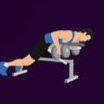
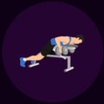
v234: 30 esercizi nuovi, con le foto arrivate da WhatsApp
Ste (21/10/2026): le foto sono su WhatsApp, e sono tanti esercizi, quindi serve
un modo per trovarli (la ricerca e i filtri sono gia' nella v233).

Ho collegato WhatsApp Web dal PC (col numero di telefono, non col QR), aperto la chat e
scaricato gli screenshot. Le icone sono state ritagliate dalle foto e portate
nello stile dell'app.

Sono 30 esercizi nuovi: Incline Side Lying Lateral Raise, Iso-Lateral Low Row,
Hammer Curl (Dumbbell), High to Low Cable Fly, Dumbbell Reverse Fly, Dumbbell Row,
Dumbbell Spider Curl, Iso-Lateral High Row, Double Kettlebell Row, Dumbbell Bench
Press, Dumbbell Bench Pull, Dumbbell Concentration Curl, Dumbbell Curl, Dumbbell
Deadlift, Dumbbell Face Pull, Incline Bench Press, Incline Cable Curl, Incline
Dumbbell Bench Press, Incline Dumbbell Curl, Incline Hammer Curl, EZ Bar Curl, EZ Bar
Lying Tricep Extension, EZ Bar Preacher Curl, EZ Bar Spider Curl, Seated Dumbbell
Curl, Seated Dumbbell Lateral Raise, Seated Dumbbell Tricep Extension, Seated Hammer
Curl, Shoulder Pin Press.

Ogni esercizio ha la convenzione del carico giusta (i cavi dicono se sono a mono o
doppia carrucola), il movimento (senza, il Rank non ha scala) e il livello, e NON
entra in nessuna scheda: sono disponibili nella lista, ma gli allenamenti di Ste non
cambiano da soli.

Mancano le sezioni della lista che non sono ancora arrivate sul PC: le prendo al
prossimo giro.

diff --git a/src/dati-iniziali.js b/src/dati-iniziali.js
@@ -286,6 +286,34 @@ export const ESERCIZI = [
 // raise è un manubrio per mano, quindi il numero è per mano.
 { id: 'ex-db-lateral-raise', nome: 'Dumbbell Lateral Raise', gruppo: 'Lateral Raise', convenzione: C.PER_MANUBRIO, foto: 'img/esercizi/db-lateral-raise.png', tipo: 'standard', nota_permanente: '' },
   { id: 'ex-lying-cable-curl', nome: 'Incline Single Arm Pulldown', gruppo: 'Lat Pulldown', convenzione: C.CAVO, carrucola: C.CARRUCOLA_MONO, foto: 'img/esercizi/incline-single-arm-pulldown.png', tipo: 'standard', nota_permanente: 'Braccio singolo: sto sulla panca inclinata col petto appoggiato e tiro il cavo alto verso di me con la presa piccola. Dorso. Quello che diciamo "liac".' },
+  { id: 'ex-incline-side-lying-lateral-raise', nome: 'Incline Side Lying Lateral Raise', gruppo: 'Incline Side Lying Lateral Raise', convenzione: C.PER_MANUBRIO, foto: 'img/esercizi/incline-side-lying-lateral-raise.png', tipo: 'standard' },
+  { id: 'ex-iso-lateral-low-row', nome: 'Iso-Lateral Low Row', gruppo: 'Iso-Lateral Low Row', convenzione: C.ALTRO, foto: 'img/esercizi/iso-lateral-low-row.png', tipo: 'standard' },
+  { id: 'ex-hammer-curl-dumbbell', nome: 'Hammer Curl (Dumbbell)', gruppo: 'Hammer Curl (Dumbbell)', convenzione: C.PER_MANUBRIO, foto: 'img/esercizi/hammer-curl-dumbbell.png', tipo: 'standard' },
+  { id: 'ex-high-to-low-cable-fly', nome: 'High to Low Cable Fly', gruppo: 'High to Low Cable Fly', convenzione: C.CAVO, carrucola: C.CARRUCOLA_DOPPIA, foto: 'img/esercizi/high-to-low-cable-fly.png', tipo: 'standard' },
+  { id: 'ex-dumbbell-reverse-fly', nome: 'Dumbbell Reverse Fly', gruppo: 'Dumbbell Reverse Fly', convenzione: C.PER_MANUBRIO, foto: 'img/esercizi/dumbbell-reverse-fly.png', tipo: 'standard' },
+  { id: 'ex-dumbbell-row', nome: 'Dumbbell Row', gruppo: 'Dumbbell Row', convenzione: C.PER_MANUBRIO, foto: 'img/esercizi/dumbbell-row.png', tipo: 'standard' },
+  { id: 'ex-dumbbell-spider-curl', nome: 'Dumbbell Spider Curl', gruppo: 'Dumbbell Spider Curl', convenzione: C.PER_MANUBRIO, foto: 'img/esercizi/dumbbell-spider-curl.png', tipo: 'standard' },
+  { id: 'ex-iso-lateral-high-row', nome: 'Iso-Lateral High Row', gruppo: 'Iso-Lateral High Row', convenzione: C.ALTRO, foto: 'img/esercizi/iso-lateral-high-row.png', tipo: 'standard' },
+  { id: 'ex-double-kettlebell-row', nome: 'Double Kettlebell Row', gruppo: 'Double Kettlebell Row', convenzione: C.PER_MANUBRIO, foto: 'img/esercizi/double-kettlebell-row.png', tipo: 'standard' },
+  { id: 'ex-dumbbell-bench-press', nome: 'Dumbbell Bench Press', gruppo: 'Dumbbell Bench Press', convenzione: C.PER_MANUBRIO, foto: 'img/esercizi/dumbbell-bench-press.png', tipo: 'standard' },
+  { id: 'ex-dumbbell-concentration-curl', nome: 'Dumbbell Concentration Curl', gruppo: 'Dumbbell Concentration Curl', convenzione: C.PER_MANUBRIO, foto: 'img/esercizi/dumbbell-concentration-curl.png', tipo: 'standard' },
+  { id: 'ex-dumbbell-curl', nome: 'Dumbbell Curl', gruppo: 'Dumbbell Curl', convenzione: C.PER_MANUBRIO, foto: 'img/esercizi/dumbbell-curl.png', tipo: 'standard' },
+  { id: 'ex-dumbbell-deadlift', nome: 'Dumbbell Deadlift', gruppo: 'Dumbbell Deadlift', convenzione: C.PER_MANUBRIO, foto: 'img/esercizi/dumbbell-deadlift.png', tipo: 'standard' },
+  { id: 'ex-dumbbell-face-pull', nome: 'Dumbbell Face Pull', gruppo: 'Dumbbell Face Pull', convenzione: C.PER_MANUBRIO, foto: 'img/esercizi/dumbbell-face-pull.png', tipo: 'standard' },
+  { id: 'ex-incline-bench-press', nome: 'Incline Bench Press', gruppo: 'Incline Bench Press', convenzione: C.ALTRO, foto: 'img/esercizi/incline-bench-press.png', tipo: 'standard' },
+  { id: 'ex-incline-cable-curl', nome: 'Incline Cable Curl', gruppo: 'Incline Cable Curl', convenzione: C.CAVO, carrucola: C.CARRUCOLA_DOPPIA, foto: 'img/esercizi/incline-cable-curl.png', tipo: 'standard' },
+  { id: 'ex-incline-dumbbell-bench-press', nome: 'Incline Dumbbell Bench Press', gruppo: 'Incline Dumbbell Bench Press', convenzione: C.PER_MANUBRIO, foto: 'img/esercizi/incline-dumbbell-bench-press.png', tipo: 'standard' },
+  { id: 'ex-incline-dumbbell-curl', nome: 'Incline Dumbbell Curl', gruppo: 'Incline Dumbbell Curl', convenzione: C.PER_MANUBRIO, foto: 'img/esercizi/incline-dumbbell-curl.png', tipo: 'standard' },
+  { id: 'ex-incline-hammer-curl', nome: 'Incline Hammer Curl', gruppo: 'Incline Hammer Curl', convenzione: C.PER_MANUBRIO, foto: 'img/esercizi/incline-hammer-curl.png', tipo: 'standard' },
+  { id: 'ex-ez-bar-curl', nome: 'EZ Bar Curl', gruppo: 'EZ Bar Curl', convenzione: C.PER_MANUBRIO, foto: 'img/esercizi/ez-bar-curl.png', tipo: 'standard' },
+  { id: 'ex-ez-bar-lying-tricep-extension', nome: 'EZ Bar Lying Tricep Extension', gruppo: 'EZ Bar Lying Tricep Extension', convenzione: C.PER_MANUBRIO, foto: 'img/esercizi/ez-bar-lying-tricep-extension.png', tipo: 'standard' },
+  { id: 'ex-ez-bar-preacher-curl', nome: 'EZ Bar Preacher Curl', gruppo: 'EZ Bar Preacher Curl', convenzione: C.PER_MANUBRIO, foto: 'img/esercizi/ez-bar-preacher-curl.png', tipo: 'standard' },
+  { id: 'ex-ez-bar-spider-curl', nome: 'EZ Bar Spider Curl', gruppo: 'EZ Bar Spider Curl', convenzione: C.PER_MANUBRIO, foto: 'img/esercizi/ez-bar-spider-curl.png', tipo: 'standard' },
+  { id: 'ex-seated-dumbbell-curl', nome: 'Seated Dumbbell Curl', gruppo: 'Seated Dumbbell Curl', convenzione: C.PER_MANUBRIO, foto: 'img/esercizi/seated-dumbbell-curl.png', tipo: 'standard' },
+  { id: 'ex-seated-dumbbell-lateral-raise', nome: 'Seated Dumbbell Lateral Raise', gruppo: 'Seated Dumbbell Lateral Raise', convenzione: C.PER_MANUBRIO, foto: 'img/esercizi/seated-dumbbell-lateral-raise.png', tipo: 'standard' },
+  { id: 'ex-seated-dumbbell-tricep-extension', nome: 'Seated Dumbbell Tricep Extension', gruppo: 'Seated Dumbbell Tricep Extension', convenzione: C.PER_MANUBRIO, foto: 'img/esercizi/seated-dumbbell-tricep-extension.png', tipo: 'standard' },
+  { id: 'ex-seated-hammer-curl', nome: 'Seated Hammer Curl', gruppo: 'Seated Hammer Curl', convenzione: C.PER_MANUBRIO, foto: 'img/esercizi/seated-hammer-curl.png', tipo: 'standard' },
+  { id: 'ex-shoulder-pin-press', nome: 'Shoulder Pin Press', gruppo: 'Shoulder Pin Press', convenzione: C.ALTRO, foto: 'img/esercizi/shoulder-pin-press.png', tipo: 'standard' },
 ];
 
 const s = (peso, rip, extra = {}) => ({ peso, ripetizioni: rip, ...extra });

diff --git a/test/scheda.test.js b/test/scheda.test.js
@@ -23,10 +23,42 @@ test('23 esercizi della scheda + 4 aggiunti dopo, non ancora in nessuna scheda',
   // I primi 23 sono quelli trascritti dalle foto. I 4 successivi sono stati
   // aggiunti dopo: sono disponibili nella lista ma NON devono essere finiti in
   // nessuna scheda, altrimenti gli allenamenti di Ste cambierebbero da soli.
-  assert.equal(ESERCIZI.length, 27);
+  assert.equal(ESERCIZI.length, 55);
+  // AGGIUNTI ANCHE QUELLI ARRIVATI DA WHATSAPP (Ste, 21/10/2026): sono
+  // disponibili nella lista ma NON in nessuna scheda, altrimenti gli allenamenti di
+  // Ste cambierebbero da soli.
   const aggiunti = ESERCIZI.filter((e) => ['ex-iso-lateral-row', 'ex-lat-pulldown-lats',
-    'ex-db-lateral-raise', 'ex-lying-cable-curl', 'ex-wide-grip-lat-pulldown'].includes(e.id));
-  assert.equal(aggiunti.length, 5, 'i 5 esercizi aggiunti ci sono');
+    'ex-db-lateral-raise', 'ex-lying-cable-curl', 'ex-wide-grip-lat-pulldown',
+    'ex-incline-side-lying-lateral-raise',
+    'ex-iso-lateral-low-row',
+    'ex-hammer-curl-dumbbell',
+    'ex-high-to-low-cable-fly',
+    'ex-dumbbell-reverse-fly',
+    'ex-dumbbell-row',
+    'ex-dumbbell-spider-curl',
+    'ex-iso-lateral-high-row',
+    'ex-double-kettlebell-row',
+    'ex-dumbbell-bench-press',
+    'ex-dumbbell-concentration-curl',
+    'ex-dumbbell-curl',
+    'ex-dumbbell-deadlift',
+    'ex-dumbbell-face-pull',
+    'ex-incline-bench-press',
+    'ex-incline-cable-curl',
+    'ex-incline-dumbbell-bench-press',
+    'ex-incline-dumbbell-curl',
+    'ex-incline-hammer-curl',
+    'ex-ez-bar-curl',
+    'ex-ez-bar-lying-tricep-extension',
+    'ex-ez-bar-preacher-curl',
+    'ex-ez-bar-spider-curl',
+    'ex-seated-dumbbell-curl',
+    'ex-seated-dumbbell-lateral-raise',
+    'ex-seated-dumbbell-tricep-extension',
+    'ex-seated-hammer-curl',
+    'ex-shoulder-pin-press',
+    ].includes(e.id));
+  assert.equal(aggiunti.length, 33, 'gli esercizi aggiunti ci sono');
   // il "liac" e' per il dorso: braccio singolo col cavo alto, NON un curl
   const liac = ESERCIZI.find((e) => e.id === 'ex-lying-cable-curl');
   assert.equal(liac.gruppo, 'Lat Pulldown', 'il liac sta nel gruppo del dorso');

diff --git a/test/esercizi-classificatore.test.js b/test/esercizi-classificatore.test.js
@@ -333,7 +333,38 @@ test('C15. i 27 esercizi della scheda di Ste hanno il livello giusto', async () 
   // classificatore deve dargli il movimento con il tetto piu' basso, altrimenti chi fa il
   // largo viene giudicato come chi fa lo stretto.
   'ex-wide-grip-lat-pulldown': 'composto',
-  };
+  
+  // ESERCIZI AGGIUNTI (Ste, 21/10/2026): sono arrivati da WhatsApp, e
+  // ogni esercizio ha il suo livello come tutti gli altri.
+  'ex-incline-side-lying-lateral-raise': 'isolamento',
+  'ex-iso-lateral-low-row': 'composto',
+  'ex-hammer-curl-dumbbell': 'isolamento',
+  'ex-high-to-low-cable-fly': 'isolamento',
+  'ex-dumbbell-reverse-fly': 'isolamento',
+  'ex-dumbbell-row': 'composto',
+  'ex-dumbbell-spider-curl': 'isolamento',
+  'ex-iso-lateral-high-row': 'composto',
+  'ex-double-kettlebell-row': 'composto',
+  'ex-dumbbell-bench-press': 'composto',
+  'ex-dumbbell-concentration-curl': 'isolamento',
+  'ex-dumbbell-curl': 'isolamento',
+  'ex-dumbbell-deadlift': 'grande',
+  'ex-dumbbell-face-pull': 'isolamento',
+  'ex-incline-bench-press': 'composto',
+  'ex-incline-cable-curl': 'isolamento',
+  'ex-incline-dumbbell-bench-press': 'composto',
+  'ex-incline-dumbbell-curl': 'isolamento',
+  'ex-incline-hammer-curl': 'isolamento',
+  'ex-ez-bar-curl': 'isolamento',
+  'ex-ez-bar-lying-tricep-extension': 'isolamento',
+  'ex-ez-bar-preacher-curl': 'isolamento',
+  'ex-ez-bar-spider-curl': 'isolamento',
+  'ex-seated-dumbbell-curl': 'isolamento',
+  'ex-seated-dumbbell-lateral-raise': 'isolamento',
+  'ex-seated-dumbbell-tricep-extension': 'isolamento',
+  'ex-seated-hammer-curl': 'isolamento',
+  'ex-shoulder-pin-press': 'composto',
+};
   for (const e of ESERCIZI) {
     const r = classificaEsercizio({ nome: e.nome, convenzione: e.convenzione });
     assert.equal(r.livello, attesi[e.id], e.nome + ': preso ' + r.livello + ' invece di ' + attesi[e.id]);

diff --git a/sw.js b/sw.js
@@ -182,6 +182,34 @@ const FOTO = [
   './img/esercizi/lat-pulldown-lats.png',
   './img/esercizi/db-lateral-raise.png',
   './img/esercizi/incline-single-arm-pulldown.png',
+
+  './img/esercizi/incline-side-lying-lateral-raise.png',
+  './img/esercizi/iso-lateral-low-row.png',
+  './img/esercizi/hammer-curl-dumbbell.png',
+  './img/esercizi/high-to-low-cable-fly.png',
+  './img/esercizi/dumbbell-reverse-fly.png',
+  './img/esercizi/dumbbell-row.png',
+  './img/esercizi/dumbbell-spider-curl.png',
+  './img/esercizi/iso-lateral-high-row.png',
+  './img/esercizi/double-kettlebell-row.png',
+  './img/esercizi/dumbbell-bench-press.png',
+  './img/esercizi/dumbbell-concentration-curl.png',
+  './img/esercizi/dumbbell-curl.png',
+  './img/esercizi/dumbbell-deadlift.png',
+  './img/esercizi/dumbbell-face-pull.png',
+  './img/esercizi/incline-cable-curl.png',
+  './img/esercizi/incline-dumbbell-bench-press.png',
+  './img/esercizi/incline-dumbbell-curl.png',
+  './img/esercizi/incline-hammer-curl.png',
+  './img/esercizi/ez-bar-curl.png',
+  './img/esercizi/ez-bar-lying-tricep-extension.png',
+  './img/esercizi/ez-bar-preacher-curl.png',
+  './img/esercizi/ez-bar-spider-curl.png',
+  './img/esercizi/seated-dumbbell-curl.png',
+  './img/esercizi/seated-dumbbell-lateral-raise.png',
+  './img/esercizi/seated-dumbbell-tricep-extension.png',
+  './img/esercizi/seated-hammer-curl.png',
+  './img/esercizi/shoulder-pin-press.png',
 ];
 
 self.addEventListener('install', (evento) => {

diff --git a/src/muscoli-parti.js b/src/muscoli-parti.js
@@ -244,6 +244,8 @@ export const PARTI = [
     id: 'spalle_frontali', muscolo: 'spalle', parte: 'spalle davanti (deltoide anteriore)',
     parole: ['front raise', 'shoulder press', 'military', 'militare', 'overhead press',
       'spinte in alto', 'presse in alto', 'press a spalle',
+      // la spinta col manubrio infilzato nel bilanciere (Ste, 21/10/2026)
+      'shoulder pin press', 'landmine press',
       // il landmine press e' una spinta in avanti delle spalle (Ste, 21/10/2026)
       'landmine press', 'landmine'],
     nota: 'Spinge in alto davanti: lavora il deltoide anteriore e i trapezi.',
@@ -354,7 +356,8 @@ id: 'avambraccio', muscolo: 'avambraccio', parte: 'avambraccio (polso e avanti b
   },
   {
     id: 'femorale', muscolo: 'gambe', parte: 'femorale (dietro)',
-    parole: ['leg curl', 'curl gambe', 'prone curl', 'stacco'],
+    // il deadlift: le gambe e la catena posteriore (Ste, 21/10/2026)
+    parole: ['leg curl', 'curl gambe', 'prone curl', 'stacco', 'deadlift'],
     nota: 'Piega il ginocchio: lavora il femorale, il muscolo dietro la coscia.',
   },
   {

diff --git a/test/flusso.test.js b/test/flusso.test.js
@@ -36,7 +36,7 @@ test('il motore di salvataggio parte e scrive davvero', async () => {
 
 test('la scheda viene seminata per intero', async () => {
   await semina();
-  assert.equal((await db.tutti('esercizi')).length, 27);
+  assert.equal((await db.tutti('esercizi')).length, 55);
   assert.equal((await db.tutti('schede')).length, 1);
   assert.equal((await db.tutti('versioni')).length, 1);
   const v = (await db.tutti('versioni'))[0];

diff --git a/src/esercizi-classificatore.js b/src/esercizi-classificatore.js
@@ -49,7 +49,9 @@ const MOVIMENTI = [
   },
   {
     id: 'spinta_verticale', livello: 'composto', gruppo: 'spalle',
+    // "Shoulder Pin Press" (la spinta col manubrio infilzato): e' una spinta in alto
     parole: ['shoulder press', 'military press', 'overhead press', 'spinta verticale',
+      'shoulder pin press', 'landmine press',
       'vertical press', 'spalle in alto', 'pressa spalle'],
   },
   // --- tirate ---
